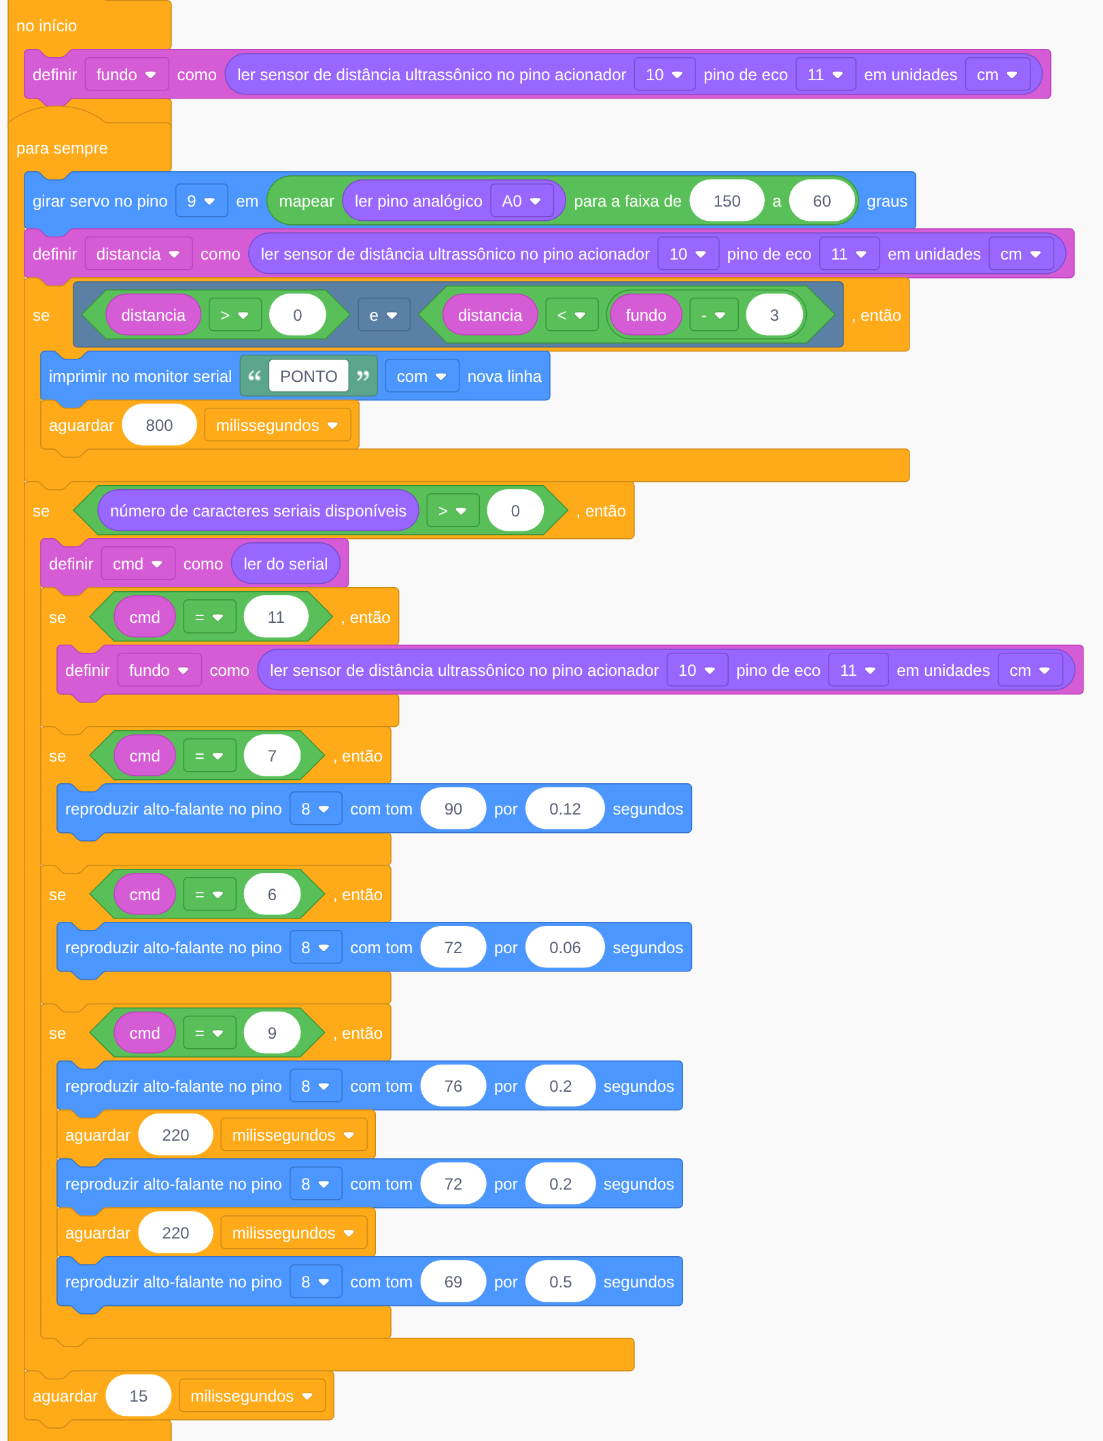
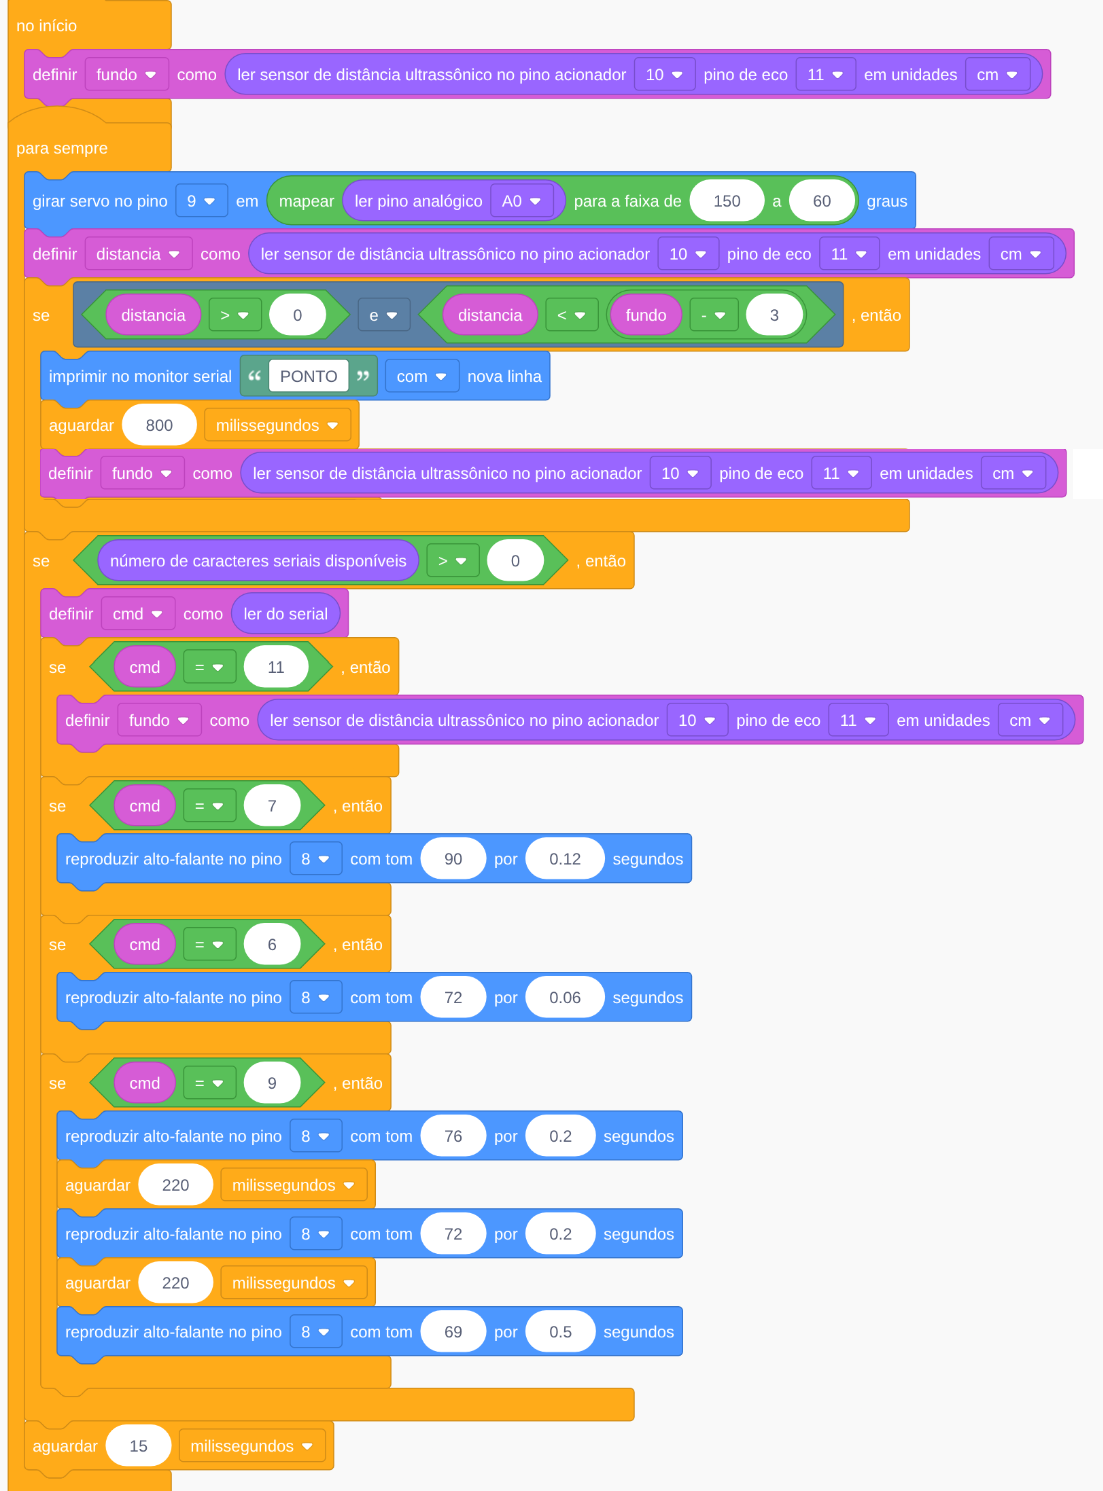
Pescaria: mede o fundo de novo depois de cada ponto
Com as bolinhas empilhando no pote, o sensor via a pilha como bolinha nova
e mandava PONTO sem parar.

Changed region(s): [[0.0, 0.0312, 0.9864, 0.9993], [0.0308, 0.9681, 0.0925, 0.9993]]

diff --git a/blocos/gerar_xml.py b/blocos/gerar_xml.py
@@ -83,7 +83,7 @@ JOGOS = {
         servo(9, mapear(ler_a('A0'), 150, 60)),
         definir('distancia', dist()),
         se(e(cmp('GT', var('distancia'), num(0)), cmp('LT', var('distancia'), menos(var('fundo'), num(3)))),
-           imprimir(txt('PONTO')), esperar(800)),
+           imprimir(txt('PONTO')), esperar(800), definir('fundo', dist())),
         ouvir((11, [definir('fundo', dist())]), (7, [som(90, 0.12)]), (6, [som(72, 0.06)]),
               (9, [som(76, 0.2), esperar(220), som(72, 0.2), esperar(220), som(69, 0.5)])),
         esperar(15)]),
